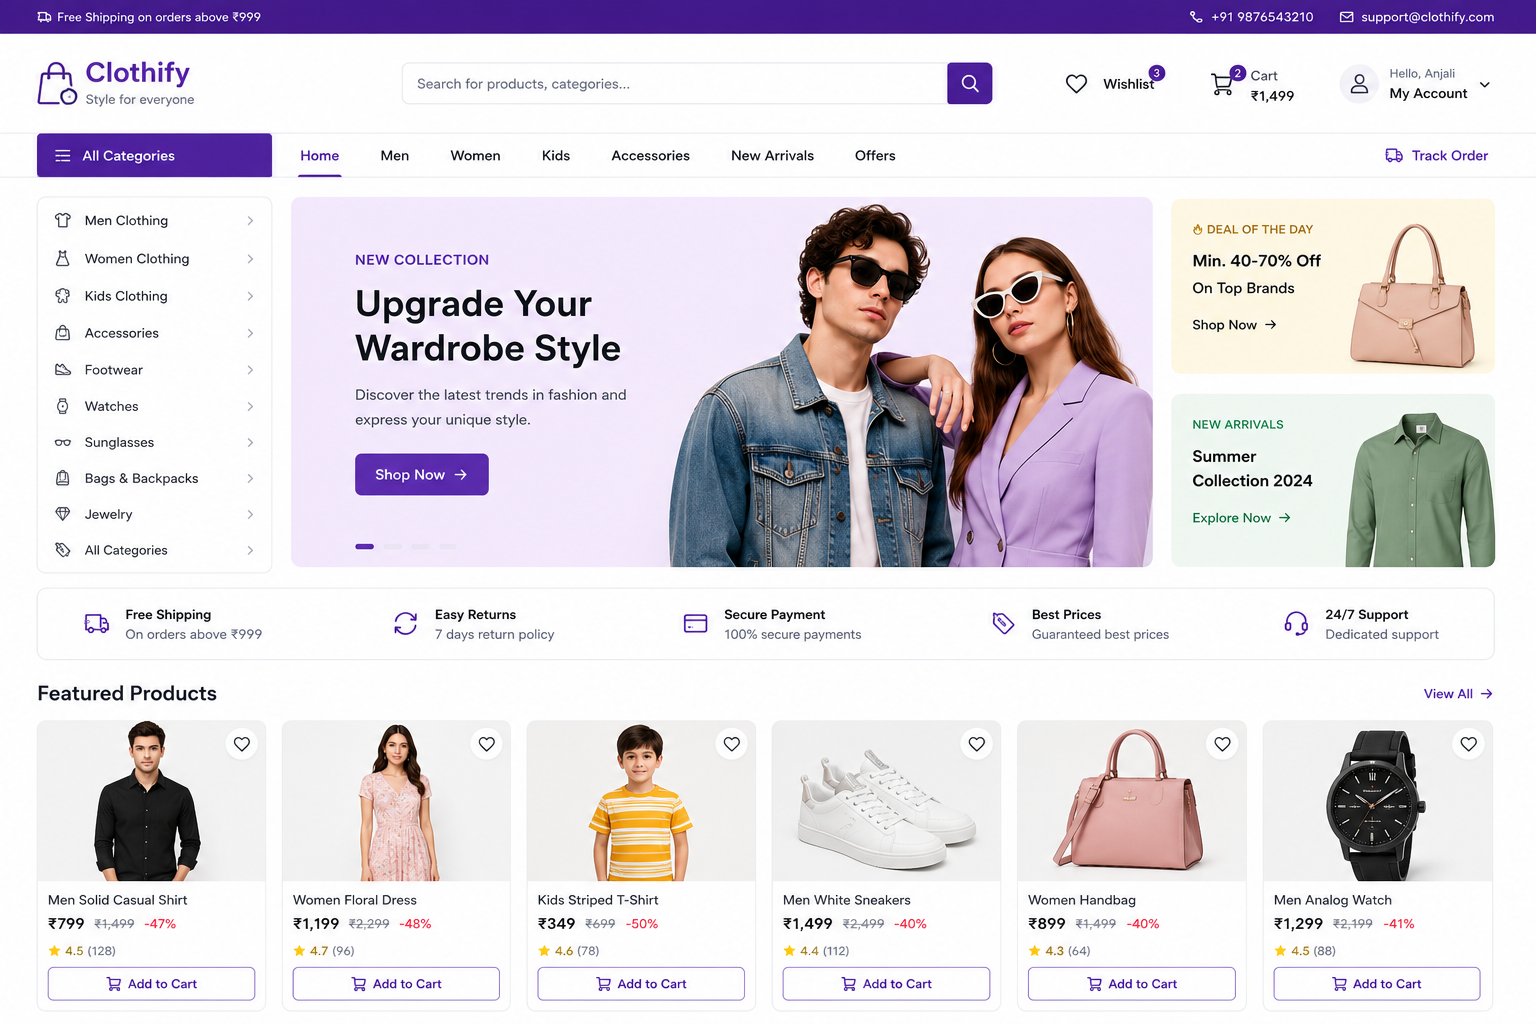
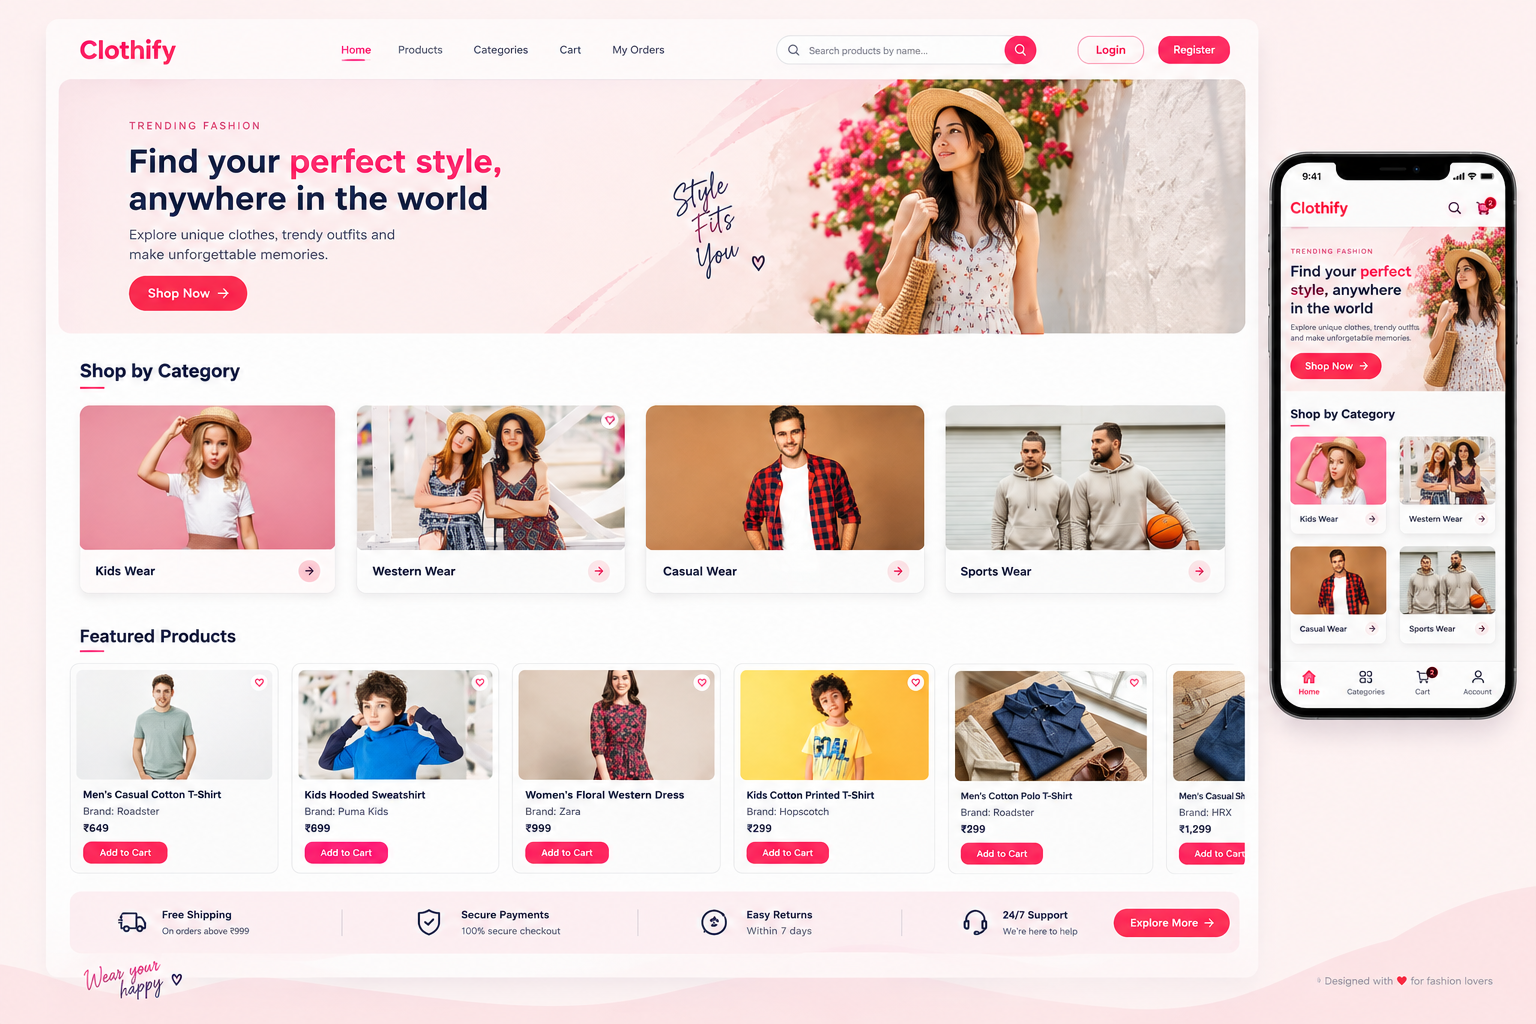
Image updated

diff --git a/src/components/Contact/Contact.jsx b/src/components/Contact/Contact.jsx
@@ -57,7 +57,7 @@ const Contact = () => {
             </div>
           </div>
 
-          <div className="contact-item">
+          {/* <div className="contact-item">
             <div className="icon-box">
               <FaPhoneAlt />
             </div>
@@ -65,7 +65,7 @@ const Contact = () => {
               <h4>PHONE</h4>
               <span>+91 9022645718</span>
             </div>
-          </div>
+          </div> */}
 
           <div className="contact-item">
             <div className="icon-box">
